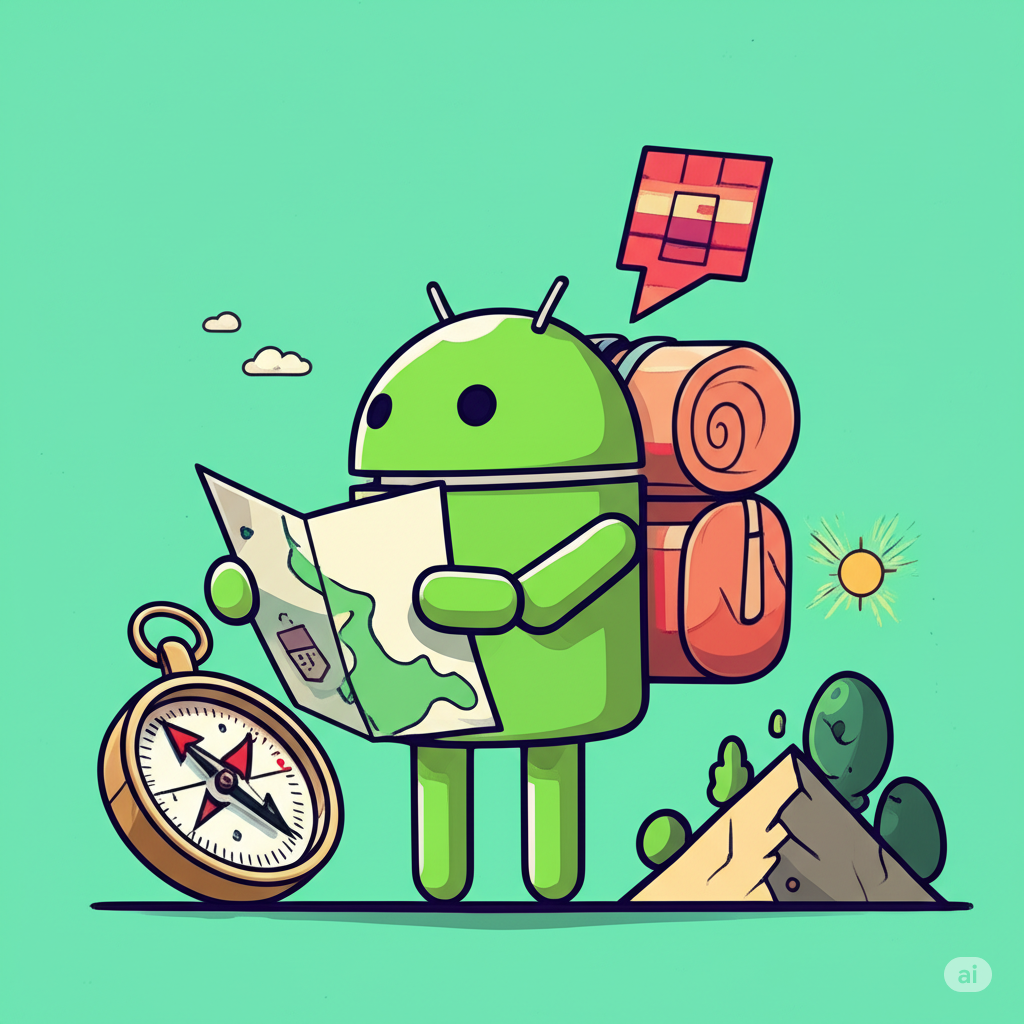
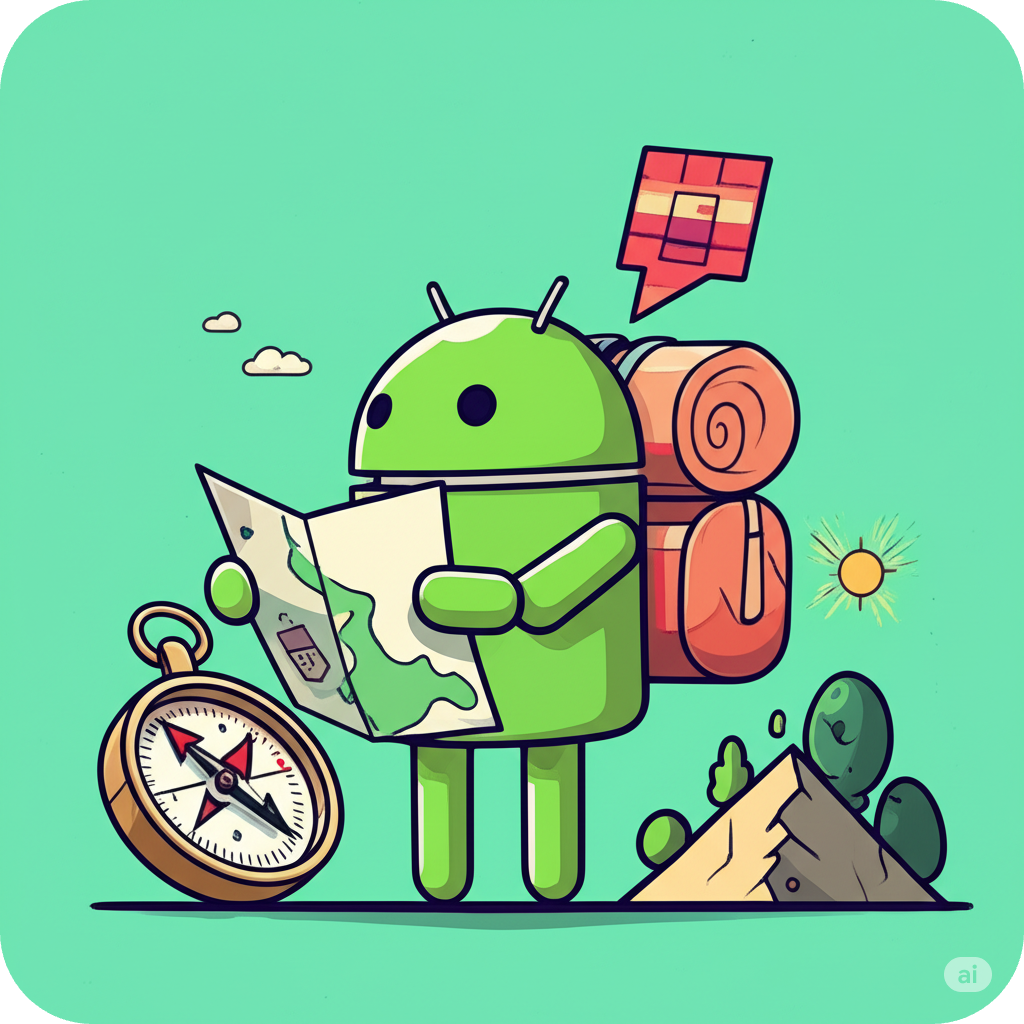
update cover image

diff --git a/README.md b/README.md
@@ -1,7 +1,7 @@
 # Compose Navigation 3 - Dynamic Destinations Sample
 
 <p align="center">
-  <img src="cover.png" width="185" style="border-radius:10%;">
+  <img src="cover.png" width="185" height="auto">
 </p>
 
 This repository contains a sample app that demonstrates how to implement dynamic destinations with [Jetpack Navigation 3](https://developer.android.com/guide/navigation/navigation-3) library.
